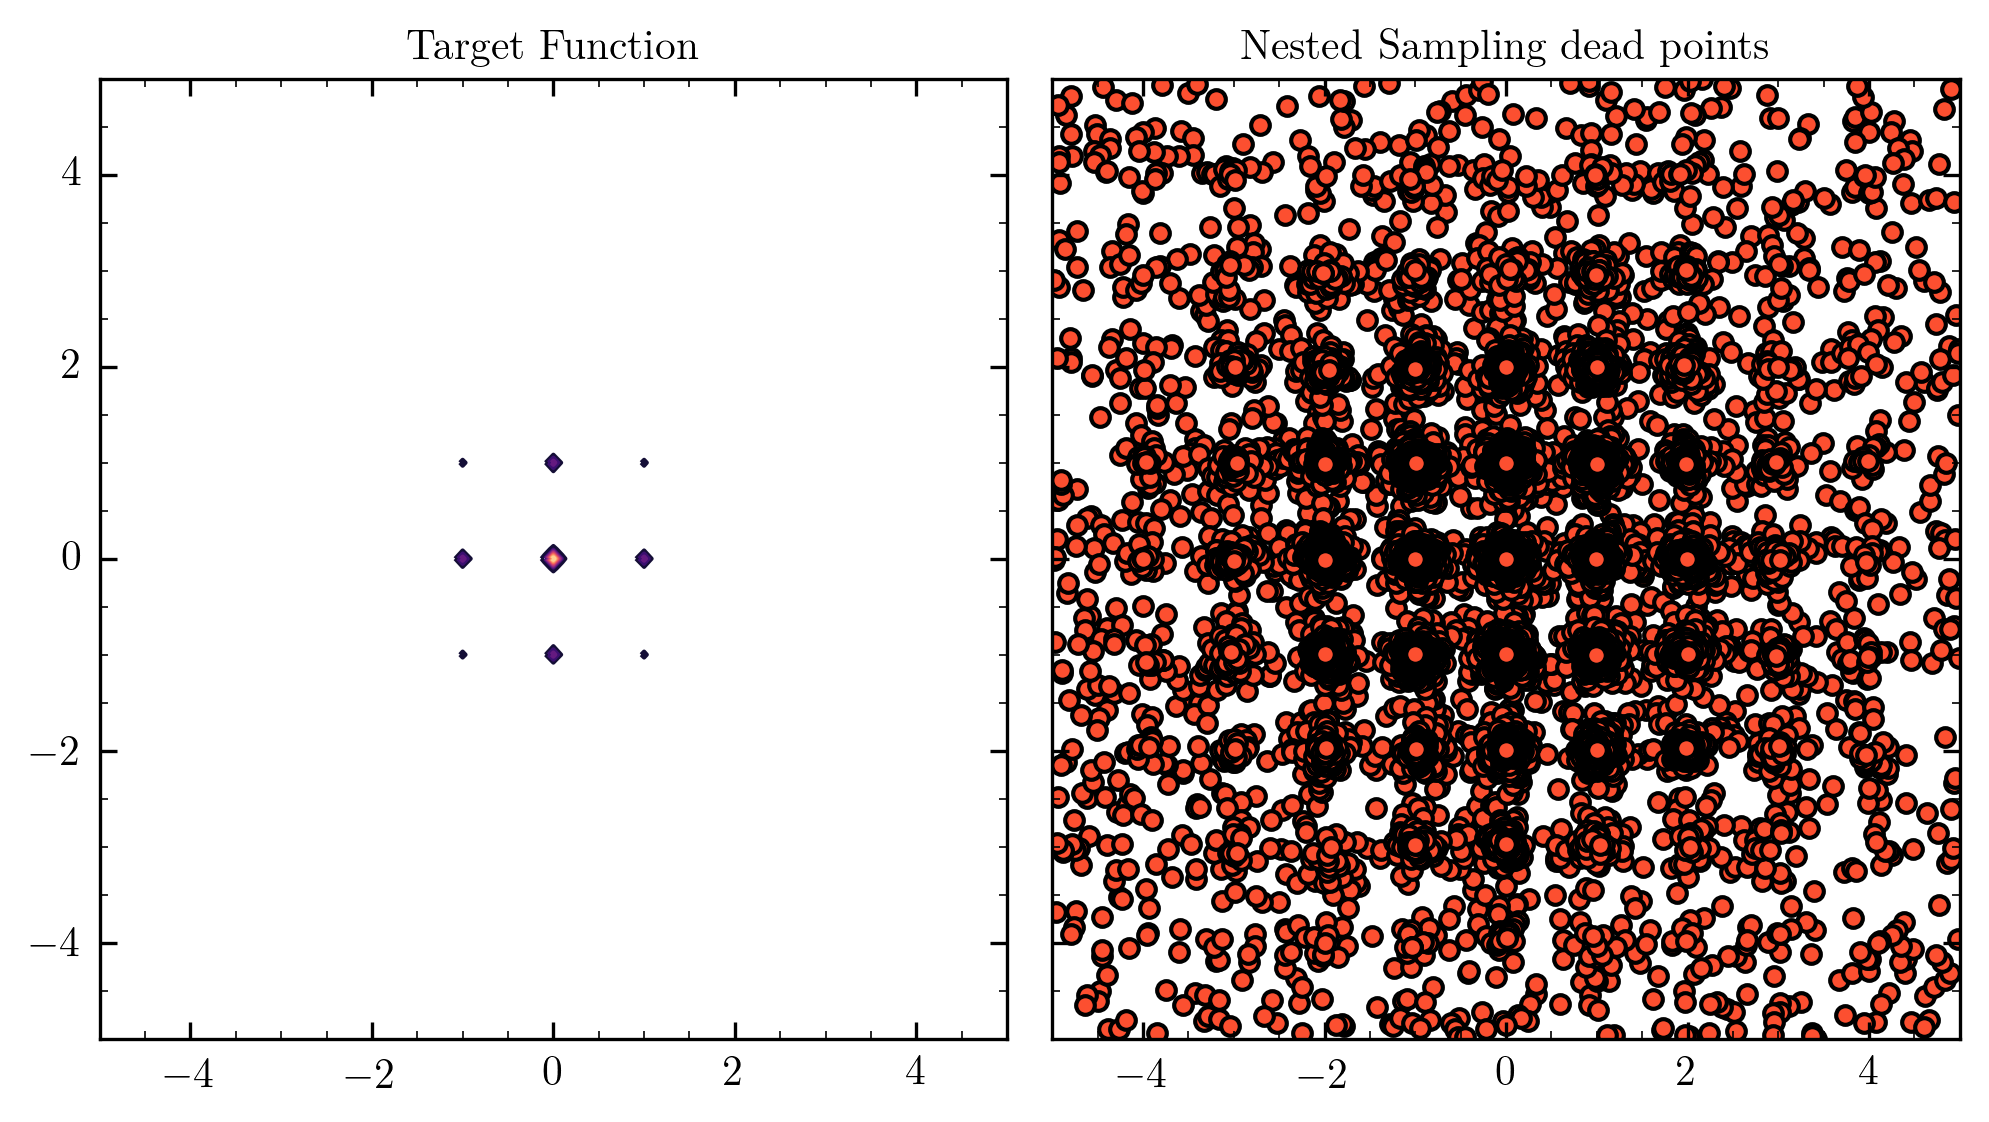
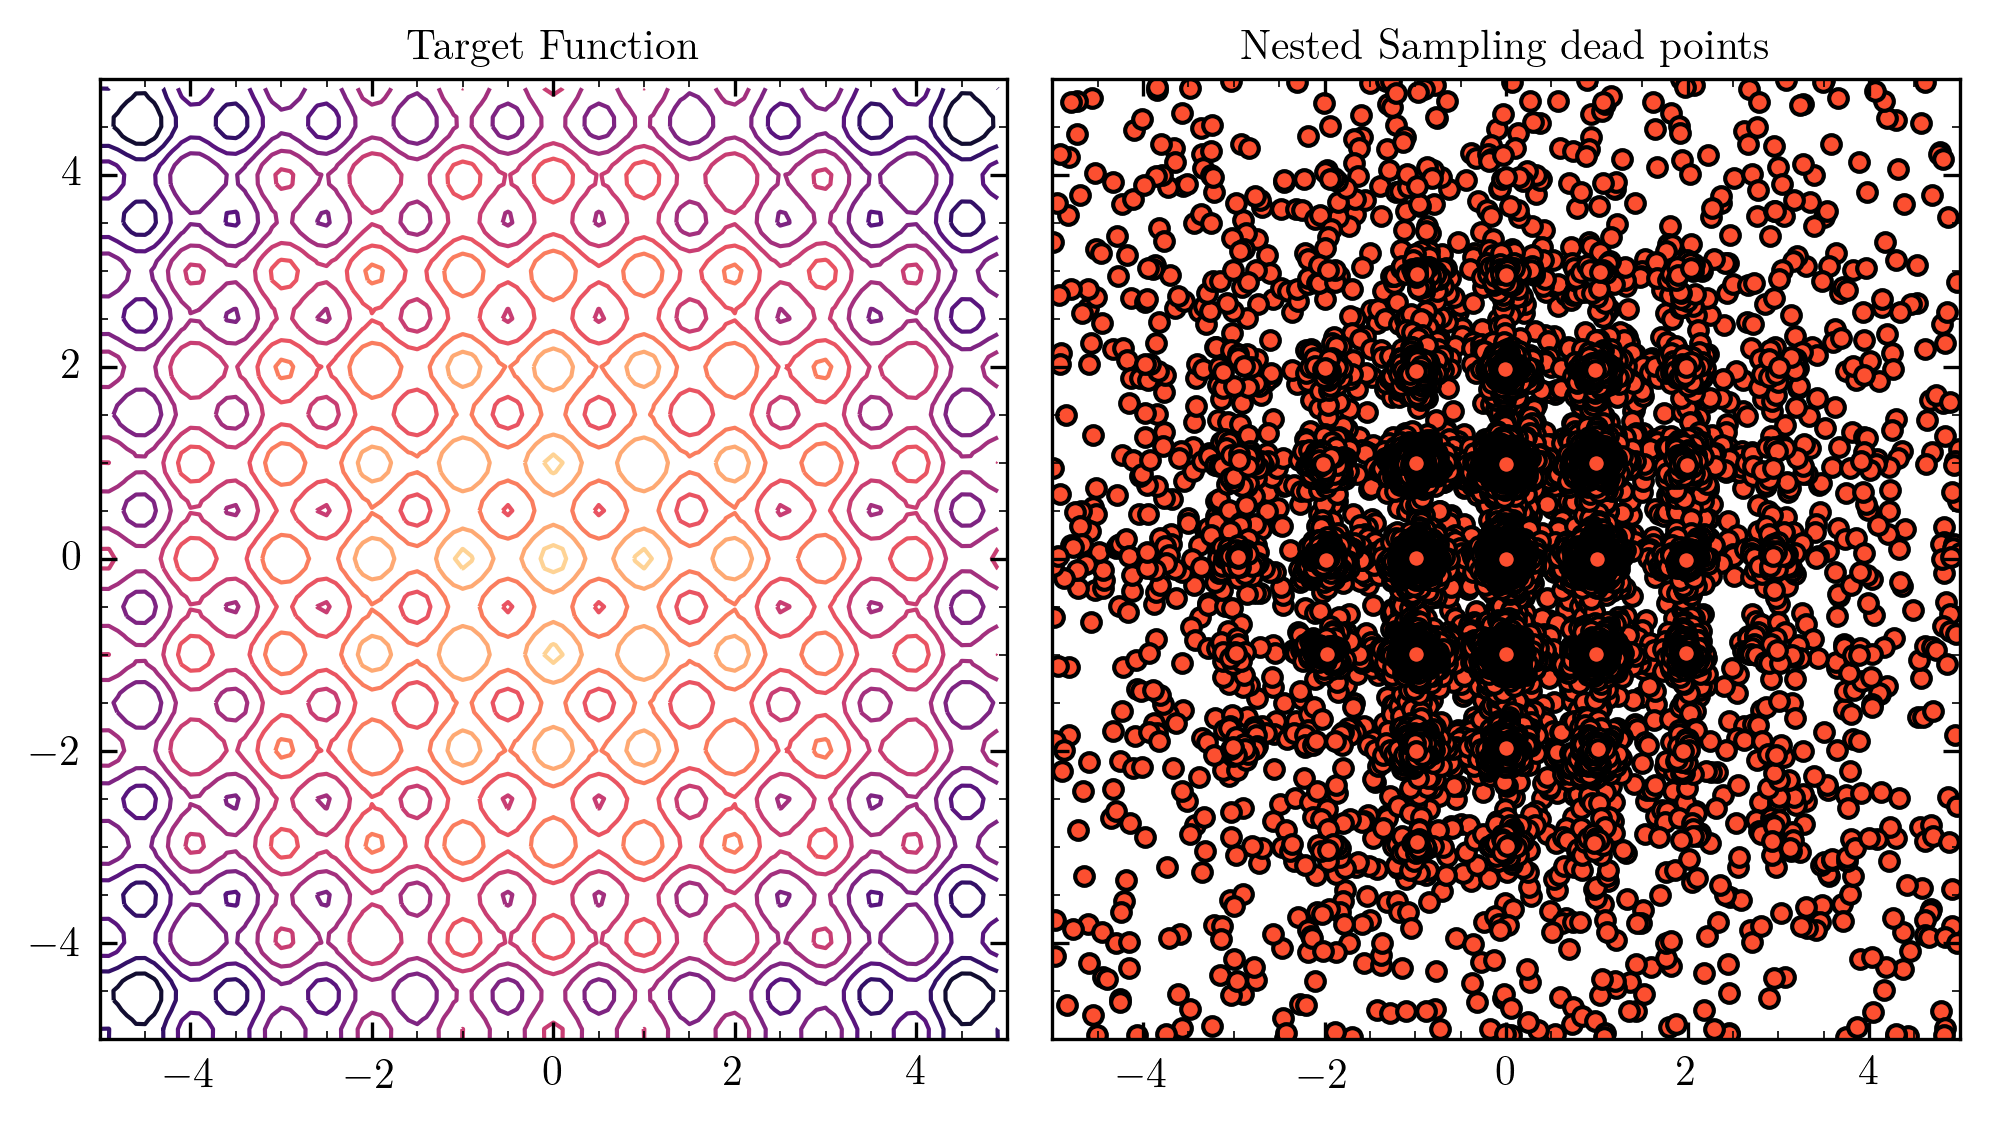
fix rastrigin

diff --git a/rastrigin.py b/rastrigin.py
@@ -9,24 +9,23 @@ def rastrigin(x,scale):
     #vectorized 2d rastrigin function
     x1=x[...,0]
     x2=x[...,1]
-    return -(2*scale + np.sum(x**2- scale * np.cos(2*np.pi*x),axis=-1))
+    return (20*scale - np.sum(x**2- scale * np.cos(2*np.pi*x),axis=-1))
     # return -((x1**2+x2-11)**2 + (x1+x2**2-7)**2)/(2*scale**2)
 
 #make a grid in mpl
 grid = np.mgrid[-5:5:.1, -5:5:.1]
 gridstack= np.dstack(grid)
 
-#this scale
-scale=10
-#we want the function to be the loglikelihood, so exp it to get the true target function
-z=np.exp(rastrigin(gridstack,scale))
-
+#scale adjusts depth of "eggbox"
+scale=5
+#rastrigin ~cosine, so we don't want the rastrigin as the logl, rather as the target
+z=rastrigin(gridstack,scale)
 target_directory="rastrigin"
 
 #wrap up likelihood and prior, plys set polychord settings
 prior = priors.UniformPrior(-5,5)
 def loglike(theta):
-    return float(rastrigin(theta,scale)), []
+    return float(np.log(rastrigin(theta,scale))), []
 
 settings=settings.PolyChordSettings(nDims=2,nDerived=0)
 #rastrigin needs a lot of live points
